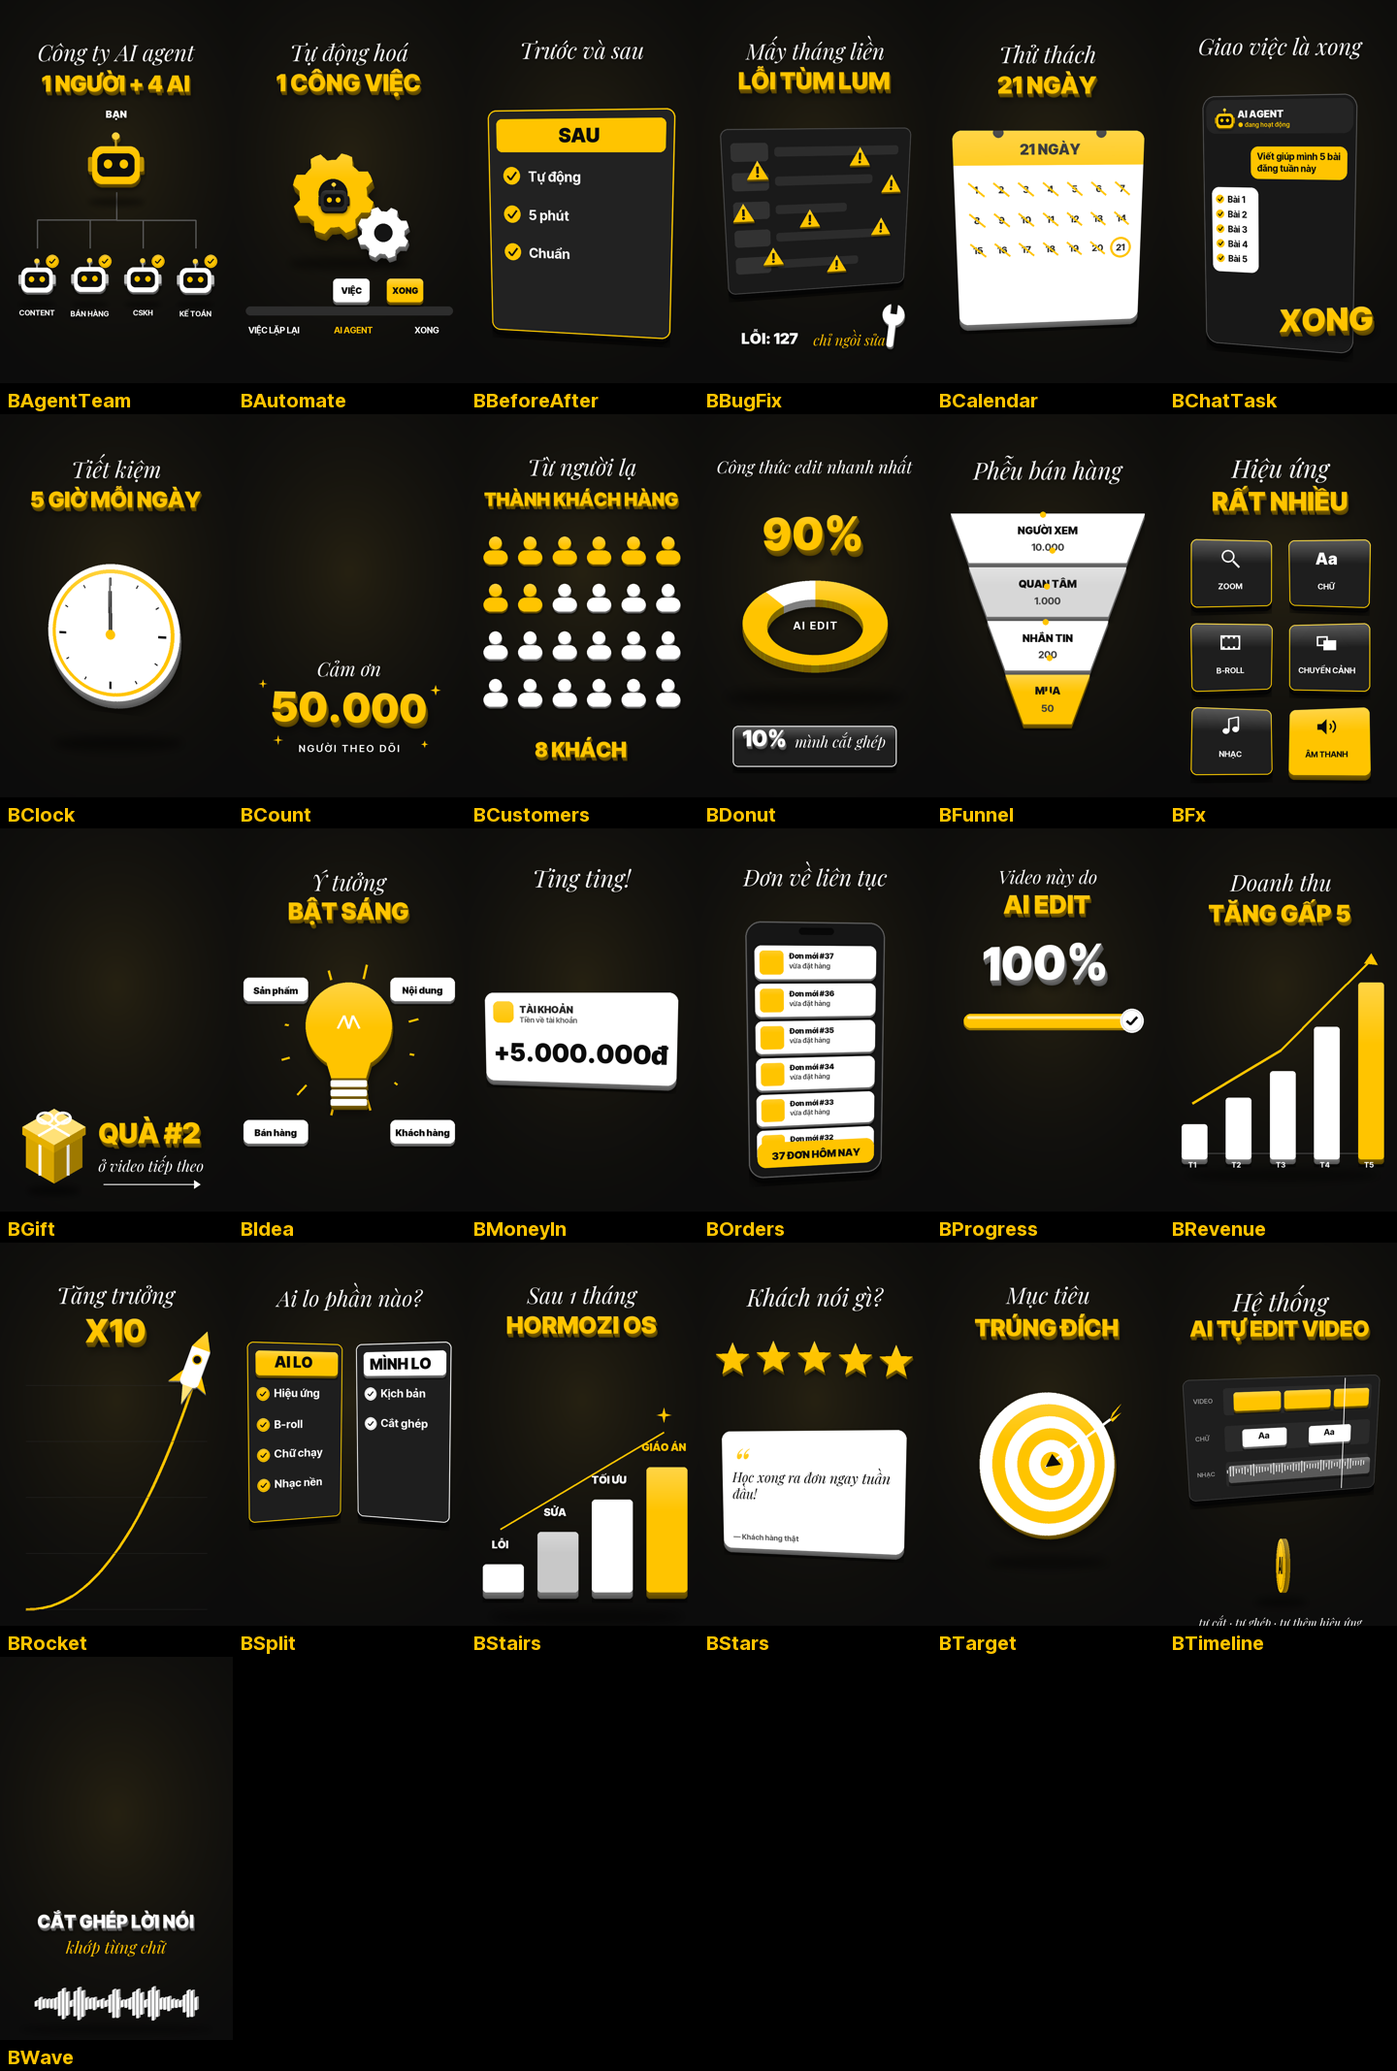
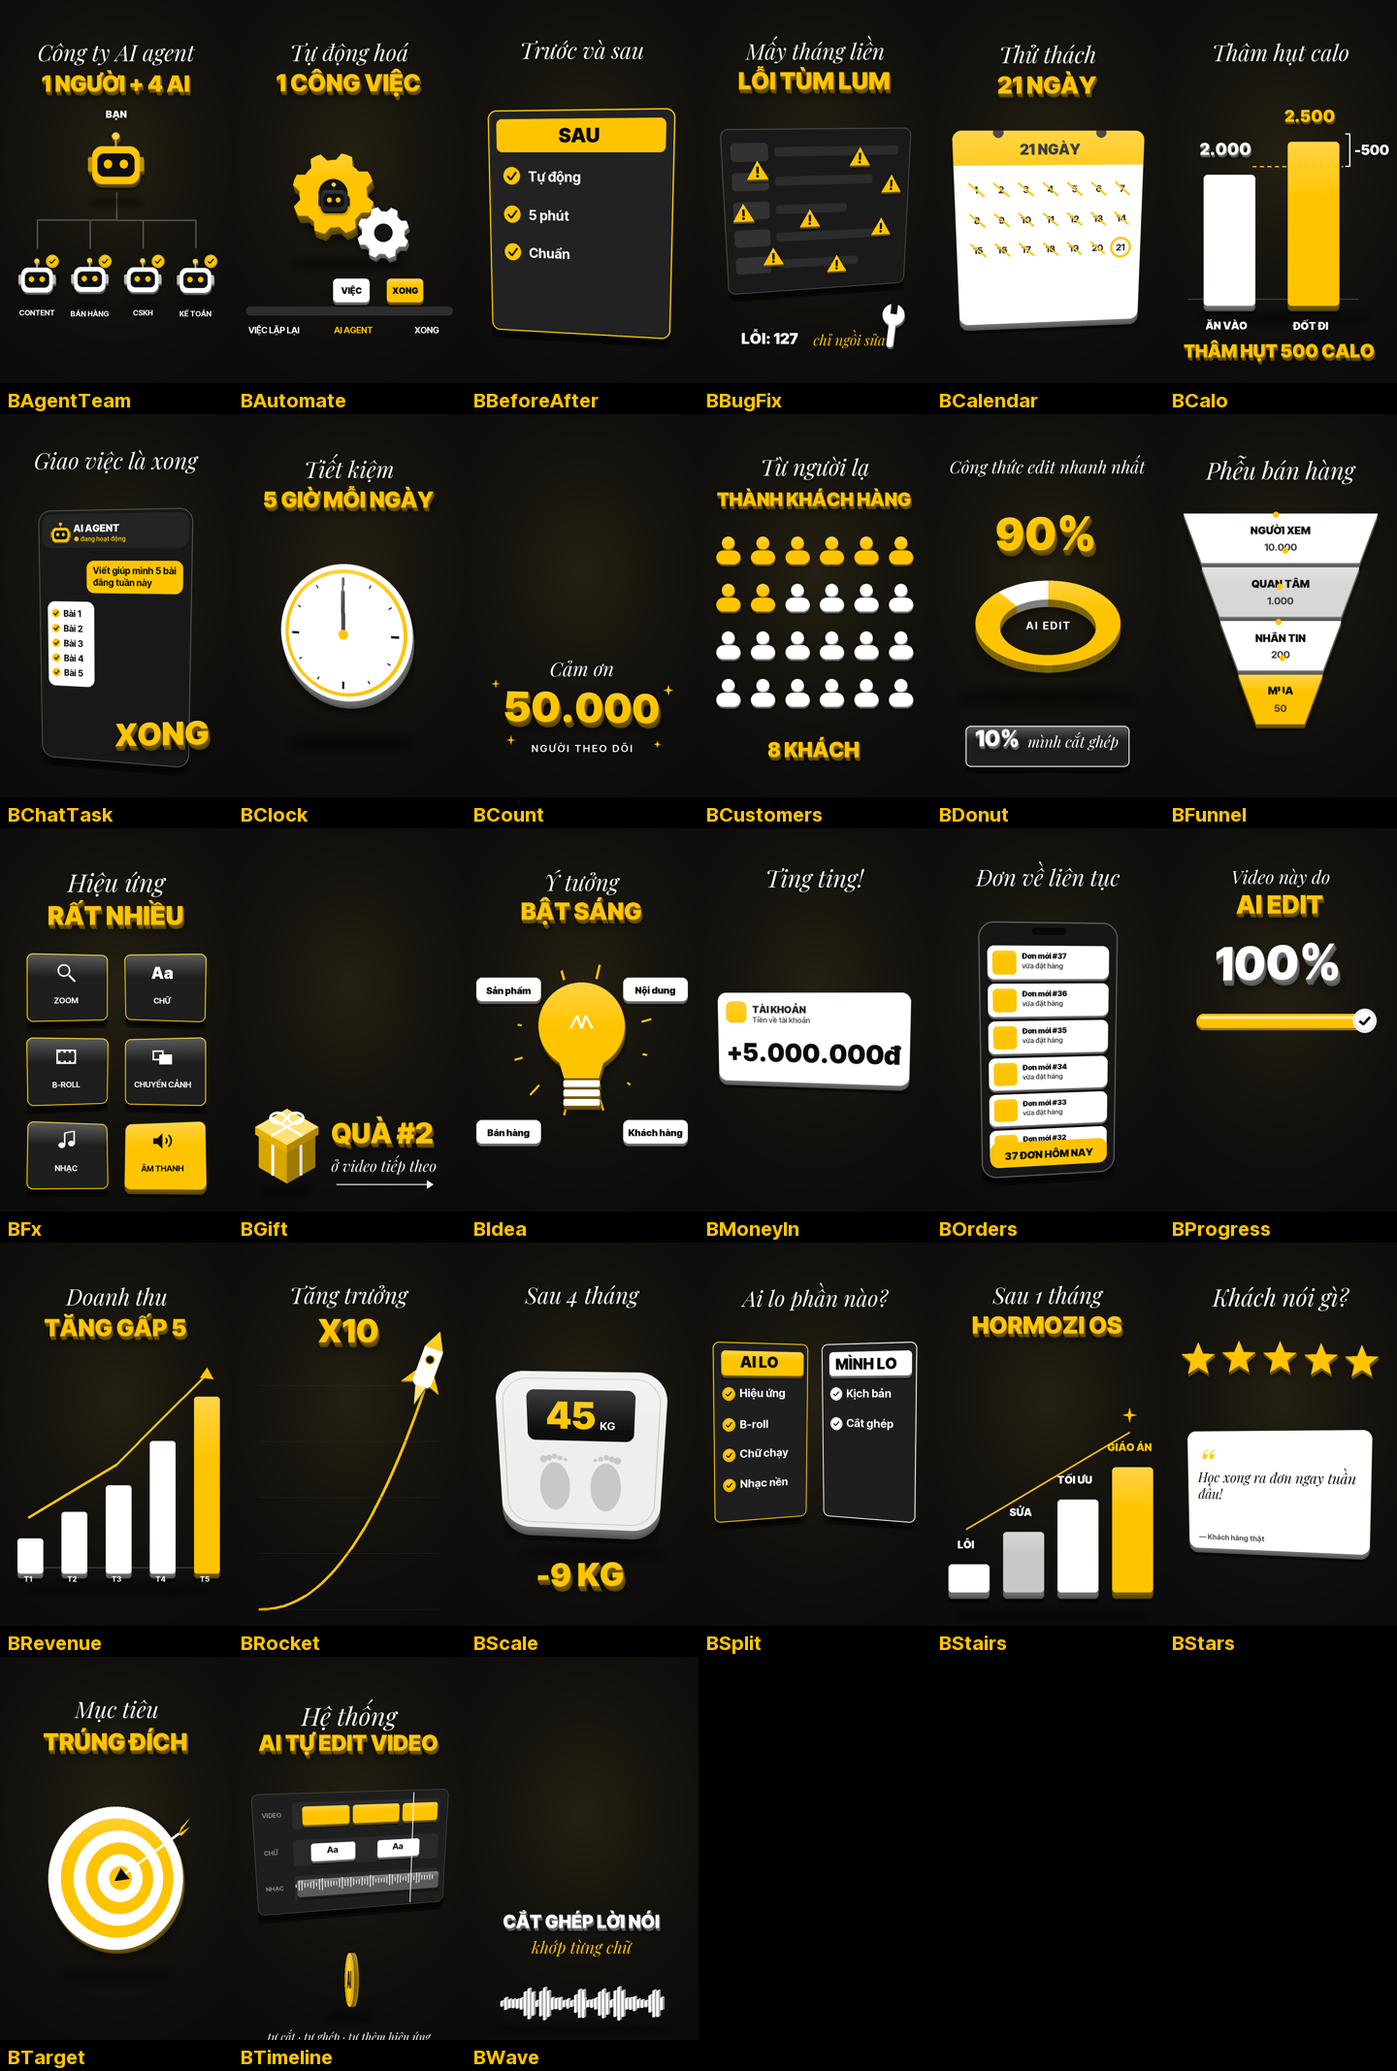
Them mau B-roll fitness (BScale, BCalo) va kieu dat canh cards
- BScale: ban can 3D, so chay tu can cu -> can moi, the -N KG; start == end -> chung can
- BCalo: cot an vao vs cot dot di, vach chenh lech + THAM HUT N CALO
- BUser layout cards: chuoi anh giu nguyen khung (anh truoc/sau ghep doi, anh vuong)
- Cap nhat SKILL.md, README, anh xem truoc mau-broll

diff --git a/scripts/reel_engine.py b/scripts/reel_engine.py
@@ -1205,6 +1205,101 @@ class BBeforeAfter:                                   # truoc / sau: man chia do
         pan = F3.extrude(mix, s(26), (8, 8, 8), dx=0.0, dy=1.0, gl=False)
         put3(cv, pan, s(540), s(1060), a=clamp(t / 0.2), ay=lerp(-30, -8, e_out(t / 0.6)) + 2 * math.sin(t * 1.4), ax=8)
 
+# ------------------------------------------------------------------ B-roll FITNESS / giam can (them 28/10/2026, clip "fitness vd 1-2")
+class BScale:                                         # can suc khoe 3D: so tren man hinh chay tu can cu -> can moi, the "-N KG" bat ra
+    layout = "full"
+    def __init__(self, title="Sau 4 tháng", start=54, end=45, unit="KG", big="", foot="", badge=""):
+        self.title, self.start, self.end, self.unit, self.big, self.foot = title, float(start), float(end), unit, big, foot
+        self.badge = badge                            # chu thay cho "-N KG"; start == end -> so nhay qua lai (chung can)
+    def sfx(self, d):
+        return ([(0.0, "whoosh", 0.06), (0.45, "thud", 0.07)] + [(0.7 + i * 0.1, "tick", 0.035) for i in range(12)]
+                + [(1.95, "ding", 0.09), (2.1, "pop", 0.06)])
+    def draw(self, cv, t, d):
+        dr = ImageDraw.Draw(cv)
+        text(cv, self.title, fit_font(SERIF, 104, self.title, s(960)), s(540), s(250), WHITE, a=e_io(t / 0.4))
+        if self.big:
+            put3(cv, t3d(self.big, BLK(110), YEL, 18), s(540), s(400), 0.6 + 0.4 * e_back((t - 0.15) / 0.35), clamp((t - 0.15) * 5))
+        u = e_io((t - 0.7) / 1.2)
+        num = "%d" % round(lerp(self.start, self.end, u))
+        if self.start == self.end and t > 0.7: num = "%d" % (self.start + (int(t * 5) % 2))    # chung can: nhay 60 <-> 61
+        pw = s(760); face = Image.new("RGBA", (pw, pw), (0, 0, 0, 0)); fd = ImageDraw.Draw(face)
+        rr(fd, (0, 0, pw - 1, pw - 1), s(130), fill=(238, 238, 238, 255))
+        rr(fd, (s(28), s(28), pw - s(28), pw - s(28)), s(112), outline=(200, 200, 200, 255), width=s(4))
+        sx0, sy0, sx1, sy1 = s(140), s(80), pw - s(140), s(310)            # man hinh so
+        rr(fd, (sx0, sy0, sx1, sy1), s(34), fill=(14, 14, 14, 255))
+        f = BLK(170); l, tt, r, b = fd.textbbox((0, 0), num, font=f)
+        fu = BOLD(50); ul, ut, ur, ub = fd.textbbox((0, 0), self.unit, font=fu)
+        tw = (r - l) + s(16) + (ur - ul); x0 = (sx0 + sx1) / 2 - tw / 2
+        fd.text((x0 - l, (sy0 + sy1) / 2 - (b - tt) / 2 - tt), num, font=f, fill=YEL + (255,))
+        fd.text((x0 + (r - l) + s(16) - ul, (sy0 + sy1) / 2 + (b - tt) / 2 - (ub - ut) - ut), self.unit, font=fu, fill=WHITE + (255,))
+        if t > 0.45:                                                       # hai ban chan buoc len can
+            k = e_back((t - 0.45) / 0.2)
+            for sg in (-1, 1):
+                fx, fy = pw / 2 + sg * s(120), s(530)
+                rw, rh = s(70) * k, s(130) * k
+                if rw > 2: fd.ellipse([fx - rw, fy - rh + s(20), fx + rw, fy + rh], fill=(200, 200, 200, 255))
+                for j in range(5):
+                    tr = max(1.0, s(16 - j * 2) * k); tx = fx - sg * (j - 2) * s(26) * k; ty = fy - rh - s(10) + abs(j - 2) * s(8)
+                    fd.ellipse([tx - tr, ty - tr, tx + tr, ty + tr], fill=(200, 200, 200, 255))
+        scl = F3.extrude(face, s(46), SILV, dx=0.0, dy=1.0)
+        cv.alpha_composite(F3.soft_shadow(s(680), s(70), 120, s(22)), (s(200), s(1360)))
+        jolt = s(14) * math.sin((t - 0.45) * 40) * math.exp(-(t - 0.45) * 9) if t > 0.45 else 0
+        put3(cv, scl, s(540), s(1000) + jolt, sc=0.6 + 0.4 * e_back((t - 0.1) / 0.4), a=clamp(t / 0.2),
+             ay=5 * math.sin(t * 1.5), ax=lerp(38, 20, e_out(t / 0.7)))
+        delta = self.end - self.start
+        if t > 1.9 and (self.badge or abs(delta) >= 0.5):
+            lab = self.badge or ("-" if delta < 0 else "+") + "%d %s" % (round(abs(delta)), self.unit)
+            put3(cv, t3d(lab, fit_font(BLK, 150, lab, s(900)), YEL, 24), s(540), s(1560), 0.6 + 0.4 * e_back((t - 1.9) / 0.35), clamp((t - 1.9) * 5),
+                 ay=-8 + 4 * math.sin(t * 2), ax=-6)
+        if self.foot: text(cv, self.foot, fit_font(SERIF, 64, self.foot, s(960)), s(540), s(1760), WHITE, a=e_io((t - 2.1) / 0.4))
+
+class BCalo:                                          # tham hut calo: cot AN VAO (trang) vs cot DOT DI (vang) moc len, phan chenh danh dau + the ket qua
+    layout = "full"
+    def __init__(self, title="Thâm hụt calo", eat=2000, burn=2500, eat_label="ĂN VÀO", burn_label="ĐỐT ĐI", eat_txt="", burn_txt="",
+                 result="", unit="calo"):
+        self.title, self.eat, self.burn, self.eat_label, self.burn_label = title, float(eat), float(burn), eat_label, burn_label
+        self.eat_txt, self.burn_txt, self.unit = eat_txt, burn_txt, unit
+        self.result = result or "THÂM HỤT %s %s" % (counter(abs(self.burn - self.eat)), unit.upper())
+    def sfx(self, d):
+        return ([(0.0, "whoosh", 0.06), (0.4, "pop", 0.055), (0.8, "pop", 0.055)] + [(0.5 + i * 0.09, "tick", 0.03) for i in range(10)]
+                + [(1.55, "swish", 0.06), (1.9, "ding", 0.09)])
+    def draw(self, cv, t, d):
+        dr = ImageDraw.Draw(cv)
+        text(cv, self.title, fit_font(SERIF, 104, self.title, s(960)), s(540), s(250), WHITE, a=e_io(t / 0.4))
+        base, hmax, bw = s(1380), s(760), s(240); vmax = max(self.eat, self.burn, 1)
+        cv.alpha_composite(F3.soft_shadow(s(820), s(60), 110, s(18)), (s(100), base + s(30)))
+        dr.line([(s(110), base + s(6)), (s(900), base + s(6))], fill=(70, 70, 70, 255), width=s(4))
+        tops = []
+        bars = ((s(290), self.eat, self.eat_label, self.eat_txt, WHITE, SILV), (s(680), self.burn, self.burn_label, self.burn_txt, YEL, GOLD))
+        for i, (x, val, lab, txt, col, side) in enumerate(bars):
+            t0 = 0.4 + i * 0.4
+            q = e_back((t - t0) / 0.45, 1.2)
+            full = hmax * val / vmax; tops.append(base - full)
+            text(cv, lab, fit_font(BLK, 50, lab, s(330)), x, base + s(125), WHITE, a=clamp((t - t0) * 4), shadow=False)
+            if q <= 0: continue
+            h = max(6, int(full * q))
+            blk = F3.block(bw, h, s(18), col, s(26), side)
+            cv.alpha_composite(blk, (int(x - blk.width / 2 + s(13)), int(base - h)))
+            c = e_io((t - t0) / 0.8)
+            shown = txt if (txt and c >= 1) else counter(val * c)
+            put3(cv, t3d(shown, fit_font(BLK, 76, shown, s(360)), col, 12), x, base - h - s(70), ay=-6)
+        p = e_out((t - 1.55) / 0.35)
+        if p > 0 and len(tops) == 2:
+            ye, yb = tops
+            xa, xb = s(290) + bw / 2, s(680) + bw / 2
+            xe = lerp(xa, xb + s(30), p)
+            for xx in range(int(xa), int(xe), s(34)):                     # vach dut muc "an vao" keo sang cot dot
+                dr.line([(xx, ye), (min(xe, xx + s(18)), ye)], fill=YEL + (255,), width=s(6))
+            if p >= 1 and abs(yb - ye) > s(20):
+                bx = xb + s(40)
+                dr.line([(bx, yb), (bx + s(20), yb), (bx + s(20), ye), (bx, ye)], fill=WHITE + (255,), width=s(6))
+                g = "-" + counter(abs(self.burn - self.eat))
+                text(cv, g, fit_font(BLK, 64, g, s(190)), bx + s(125), (ye + yb) / 2, WHITE)
+        q = e_back((t - 1.9) / 0.35)
+        if q > 0:
+            put3(cv, t3d(self.result, fit_font(BLK, 90, self.result, s(940)), YEL, 16), s(540), s(1640), 0.6 + 0.4 * q, clamp((t - 1.9) * 5),
+                 ay=-8 + 4 * math.sin(t * 2))
+
 # ------------------------------------------------------------------ B-ROLL CUA NGUOI DUNG: canh quay / anh that (them 16/10/2026)
 # Nguyen tac (tong hop tu cac huong dan edit video ngan): moi canh chen 2-4 s, CU THE dung cau dang noi; khong chen lien tuc
 # thanh phim ghep; chu the de giua khung doc; canh lech ti le -> nen mo; anh tinh luon co chuyen dong; quay man hinh -> khung
@@ -1361,6 +1456,7 @@ class BUser:
         elif k == "phone": self.m = [Media(self.srcs[0], s(640), s(1280), "fill", self.focus, self.inpoint, d)]
         elif k == "sticker": self.m = [Media(self.srcs[0], W * 0.8, H * 0.5, "fit", 0.5, 0, d)]
         elif k == "polaroid": self.m = [Media(x, s(560), s(640), "fill", self.focus, 0, d) for x in self.srcs[:5]]
+        elif k == "cards": self.m = [Media(x, W * 0.88, H * 0.60, "fit", self.focus, self.inpoint, d / max(1, len(self.srcs))) for x in self.srcs]
         else:                                                   # montage
             seg = max(0.45, d / max(1, len(self.srcs)))
             self.m = [Media(x, W * 1.06, H * 1.06, "fill", self.focus, self.inpoint, seg) for x in self.srcs]
@@ -1374,6 +1470,8 @@ class BUser:
         if k == "polaroid": ev += sum(([(i * (d - 0.6) / max(1, len(self.m)) + 0.05, "click", 0.06), (i * (d - 0.6) / max(1, len(self.m)) + 0.1, "pop", 0.05)] for i in range(len(self.m))), [])
         elif k == "montage":
             seg = max(0.45, d / max(1, len(self.m))); ev += [(i * seg, "swish", 0.04) for i in range(1, len(self.m))]
+        elif k == "cards":
+            seg = d / max(1, len(self.m)); ev += [(0.35, "pop", 0.05)] + sum(([(i * seg, "swish", 0.045), (i * seg + 0.2, "pop", 0.045)] for i in range(1, len(self.m))), [])
         elif k in ("sticker", "phone", "card"): ev += [(0.35, "pop", 0.05)]
         if self.label: ev.append((0.5, "pop_soft", 0.04))
         return ev
@@ -1447,6 +1545,23 @@ class BUser:
             sh = F3.soft_shadow(rot.width * 0.85, s(60), 120, s(18))
             x = s(540 + ((i % 3) - 1) * 60); y = s(960 + (i % 2) * 40) - (1 - e_out(lt / 0.35)) * s(500)
             put(out, sh, x, y + rot.height * 0.45); put(out, rot, x, y, sc=1.25 - 0.25 * p)
+        return out
+    def _cards(self, fr, t, d):
+        """Nhieu anh GIU NGUYEN KHUNG (anh truoc/sau ghep doi, anh vuong) - lan luot tung the vien vang nghieng 3D, nen la anh do lam mo."""
+        n = len(self.m); seg = d / max(1, n); i = min(n - 1, int(t / seg)); lt = t - i * seg
+        img = self.m[i].frame(lt); out = blur_bg(img)
+        fg = kb(img, lt, seg, "push", 1.0, 1.04, i).convert("RGBA"); fg.putalpha(rmask(fg.width, fg.height, s(34)))
+        fr_ = Image.new("RGBA", (fg.width + s(16), fg.height + s(16)), (0, 0, 0, 0))
+        ImageDraw.Draw(fr_).rounded_rectangle([0, 0, fr_.width - 1, fr_.height - 1], radius=s(40), fill=YEL + (255,)); fr_.alpha_composite(fg, (s(8), s(8)))
+        blk = F3.extrude(fr_, s(18), GOLD, dx=0.0, dy=1.0, gl=False)
+        if self.title: text(out, self.title, fit_font(SERIF, 96, self.title, s(960)), s(540), s(300), WHITE, a=e_io(t / 0.35))
+        p = e_back(lt / 0.3) if i > 0 else 1.0
+        sg = -1 if i % 2 == 0 else 1
+        put3(out, blk, s(540), s(1060) + s(10) * math.sin(t * 1.7), sc=(0.85 + 0.15 * e_back(t / 0.35)) * (0.8 + 0.2 * p),
+             ay=sg * lerp(22, 6, e_out(lt / 0.6)) + 2 * math.sin(t * 1.3), ax=6)
+        if i < len(self.items) and self.items[i]:
+            pl = pill(self.items[i]); put(out, pl, s(540), s(1720) + (1 - e_out((lt - 0.3) / 0.3)) * s(40), a=clamp((lt - 0.3) / 0.2))
+        if i > 0 and lt < 0.07: out.alpha_composite(Image.new("RGBA", (W, H), (255, 255, 255, 110)))
         return out
     def _montage(self, fr, t, d):
         n = len(self.m); seg = max(0.45, d / max(1, n)); i = min(n - 1, int(t / seg)); lt = t - i * seg

diff --git a/SKILL.md b/SKILL.md
@@ -72,6 +72,8 @@ Xem tất cả: `mau-broll\_tat-ca.png`. Mỗi mẫu là 1 class trong `reel_eng
 | `BChatTask` | full | giao việc cho AI qua chat | title, user, items, done, agent |
 | `BBugFix` | full | lỗi, trục trặc | title, big, sub, count |
 | `BAutomate` | full | tự động hoá | title, big, inp, out, foot |
+| `BScale` | full | cân nặng giảm từ A → B kg (bàn cân 3D, số chạy, thẻ "-N KG"); start == end → chững cân | title, start, end, unit, big, foot, badge |
+| `BCalo` | full | thâm hụt calo: cột ăn vào vs cột đốt đi + "THÂM HỤT N CALO" | title, eat, burn, eat_label, burn_label, eat_txt, burn_txt, result |
 
 **Quy tắc thư viện (quan trọng nhất):**
 1. **Nội dung có ý chưa có mẫu hợp → VẼ MẪU MỚI** đúng ý (không gượng ép mẫu cũ). Viết class mới trong `reel_engine.py` cùng kiểu: nền đen; chỉ trắng + vàng #FFC400 (+ sắc tối của chúng cho mặt bên); khối 3D (`t3d`, `put3`, `F3.block/tilt/coin/iso_box/extrude/soft_shadow`, `robot()`, `person()`); có chuyển động bên trong (phần tử bật lần lượt, xoay, nảy); hàm `sfx()` trả danh sách tiếng; chữ dài phải tự co (`fit_font`); kẹp kích thước tối thiểu khi phần tử bật ra từ 0.
@@ -93,6 +95,7 @@ Người dùng có cảnh riêng: quay sản phẩm, quay màn hình app, ảnh 
 | `sticker` | tách vật thể khỏi nền + viền trắng kiểu nhãn dán, lơ lửng trên nền tối | ảnh sản phẩm, đồ vật (PNG trong suốt càng đẹp) | ẩn |
 | `pip` | cảnh toàn màn hình + mặt người nói trong bong bóng tròn viền vàng ở góc | demo dài mà vẫn cần mặt người nói | **giữ** |
 | `montage` | nhiều cảnh/ảnh cắt nhanh 0,45–0,8 s, chớp trắng nhẹ giữa các cảnh | liệt kê nhiều thứ, "rất nhiều khách / đơn / sản phẩm" | ẩn |
+| `cards` | nhiều ảnh lần lượt, mỗi ảnh GIỮ NGUYÊN KHUNG trong thẻ viền vàng nghiêng 3D, nền là ảnh đó làm mờ, `items` = nhãn vàng dưới từng ảnh; ≥1,3 s/ảnh | **ảnh trước/sau ghép đôi**, ảnh vuông, ảnh thành tích (montage/full sẽ cắt mất một nửa) | ẩn |
 | `auto` (mặc định) | tự chọn: nhiều ảnh → polaroid; nhiều video → montage; PNG trong suốt → sticker; ảnh → card; video dọc → full/phone; video ngang → card/split | | |
 
 Tham số khác: `inpoint` (`"auto"` = tự chọn đoạn NÉT + có chuyển động vừa, tránh rung và 0,3 s đầu; hoặc số giây), `focus` (0–1, vị trí cắt ngang khi cảnh ngang đưa vào khung dọc), `label` (nhãn vàng nhỏ), `title`, `items` (chữ dưới ảnh polaroid), `audio` (0 = tắt tiếng cảnh chèn; 0,2–0,5 = giữ tiếng nền nhỏ cho thật), `motion` (`push` / `pull` / `pan`), `captions` (ép giữ/ẩn phụ đề).

diff --git a/README.md b/README.md
@@ -5,8 +5,8 @@
 - **Cắt:** bỏ khoảng lặng, ậm ừ, câu vấp; câu nói nhiều lần thì giữ lần trôi chảy nhất. Tăng tốc nhẹ ×1,1–1,2.
 - **Hình:** chỉnh màu, làm mịn da. Tách phông bằng mô hình cho video (RobustVideoMatting). Nền xen kẽ: phông thật, nền tối, chữ to nằm sau đầu.
 - **Chữ:** hiện theo từng cụm, 2 font (Inter Tight + Playfair nghiêng), 3 màu trắng – đen – vàng. Chữ mảnh có hiệu ứng sang, chữ đậm có hiệu ứng năng động.
-- **Minh hoạ khối 3D:** thư viện 25 mẫu (bộ đếm số, biểu đồ doanh thu, đơn hàng về, tiền về, lịch, đồng hồ, phễu, tên lửa, đội robot AI agent, khung chat giao việc…). Nội dung của bạn chưa có mẫu hợp thì Claude **tự vẽ mẫu mới** và giữ lại cho video sau.
-- **Cảnh quay / ảnh của chính bạn:** chèn được với 8 kiểu đặt cảnh: toàn màn hình, chia đôi, thẻ nghiêng 3D, khung điện thoại, ảnh polaroid, nhãn dán, bong bóng mặt, dồn nhanh nhiều cảnh. Tự chọn đoạn nét nhất, chỉnh màu cho khớp video chính.
+- **Minh hoạ khối 3D:** thư viện 27 mẫu (bộ đếm số, biểu đồ doanh thu, đơn hàng về, tiền về, lịch, đồng hồ, phễu, tên lửa, đội robot AI agent, khung chat giao việc, bàn cân giảm kg, thâm hụt calo…). Nội dung của bạn chưa có mẫu hợp thì Claude **tự vẽ mẫu mới** và giữ lại cho video sau.
+- **Cảnh quay / ảnh của chính bạn:** chèn được với 9 kiểu đặt cảnh: toàn màn hình, chia đôi, thẻ nghiêng 3D, khung điện thoại, ảnh polaroid, nhãn dán, bong bóng mặt, dồn nhanh nhiều cảnh, chuỗi thẻ giữ nguyên khung (hợp với ảnh trước/sau). Tự chọn đoạn nét nhất, chỉnh màu cho khớp video chính.
 - **Âm thanh:** nhiều hiệu ứng tự tổng hợp, nhạc nền −15 dB so với giọng, cân âm chuẩn mạng xã hội −14 LUFS.
 - **Xuất file:** 1080×1920; có bản nháp 720p để duyệt trước.
 
